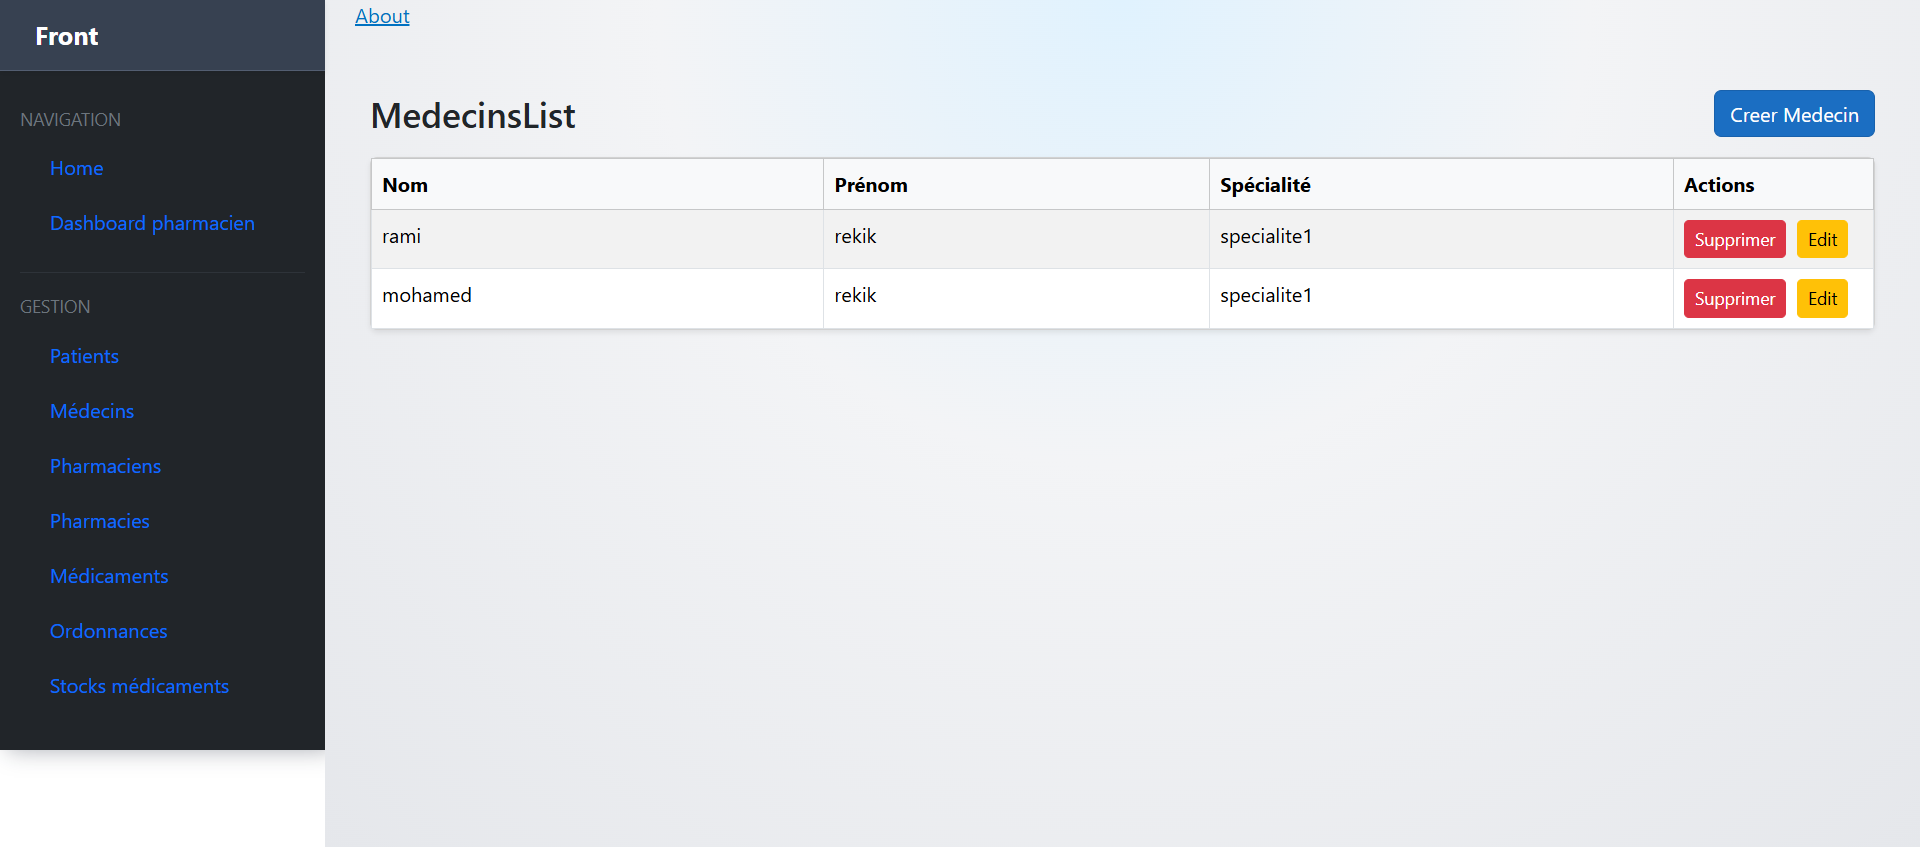
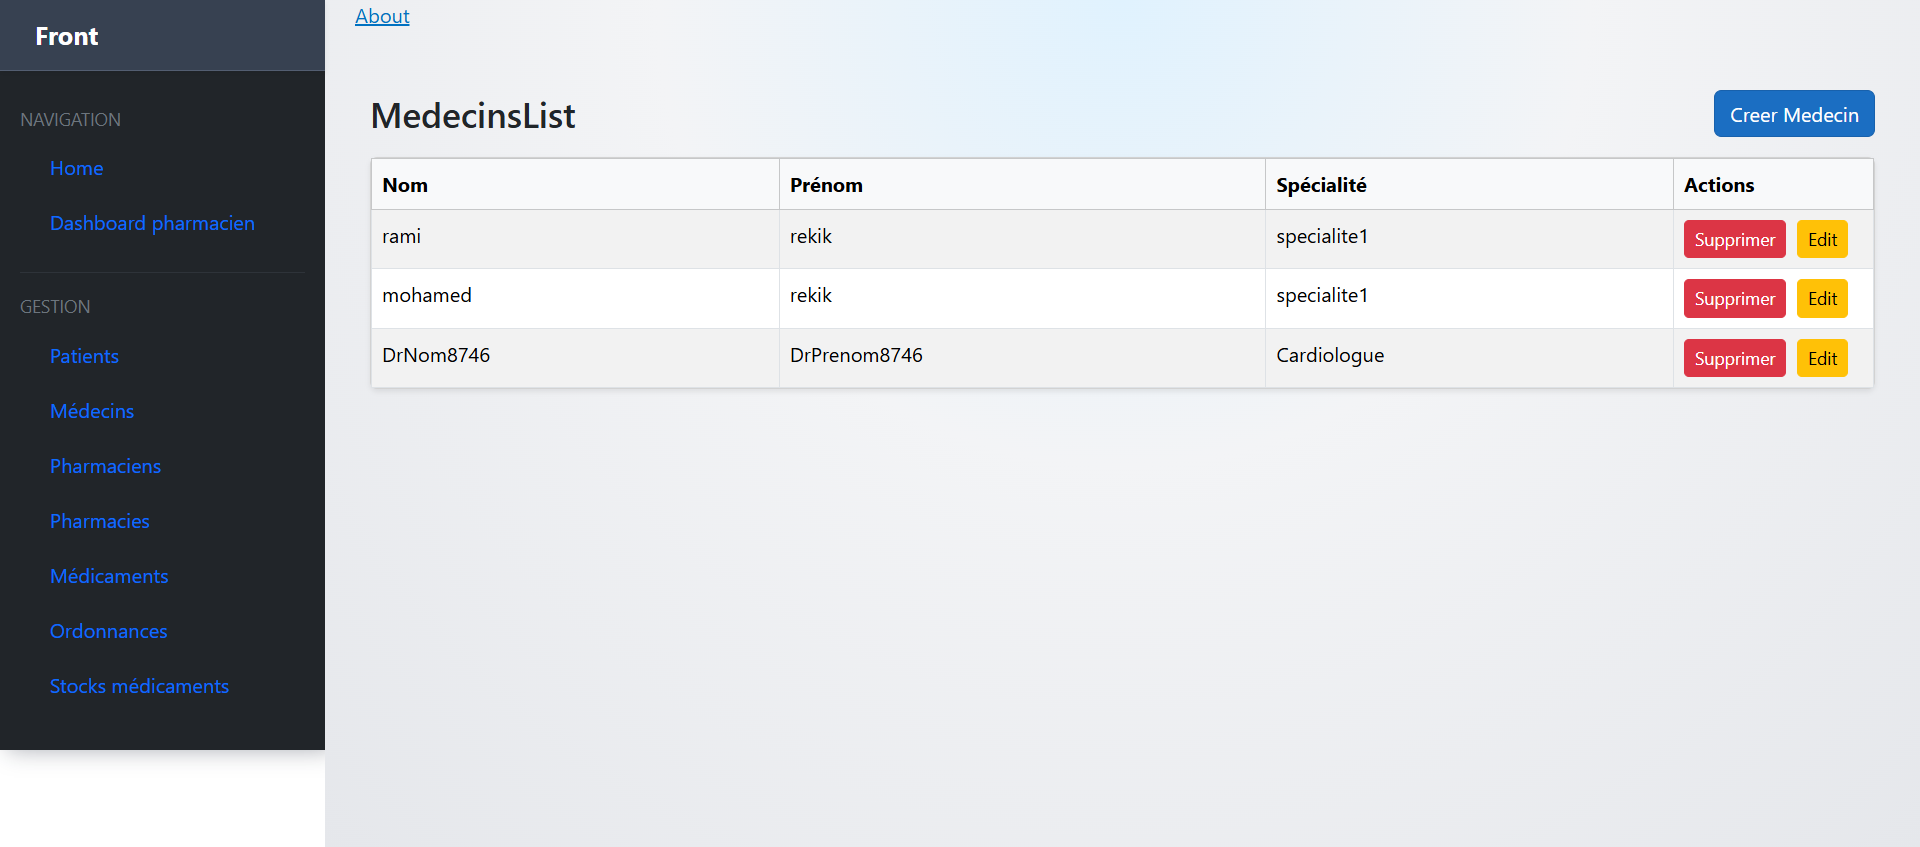
updates

diff --git a/pages/PharmaciensPage.py b/pages/PharmaciensPage.py
@@ -16,6 +16,7 @@ class PharmaciensPage(BasePage):
     INPUT_PRENOM = (By.XPATH, "//div[@class='card-body']//div[2]//input[1]")
     INPUT_TELEPHONE = (By.XPATH, "//div[3]//input[1]")
     INPUT_EMAIL = (By.XPATH, "//main//div[5]//input")
+    INPUT_INSCRIPTION = (By.XPATH, "//div[4]//input[1]")
     BUTTON_SUBMIT = (By.XPATH, "//button[normalize-space()='Create Pharmacien']")
 
     BUTTON_EDIT_FIRST = (By.XPATH, "(//button[contains(text(),'Edit')])[1]")
@@ -35,11 +36,12 @@ class PharmaciensPage(BasePage):
         self.click_element(self.BUTTON_CREATE)
         sleep(1)
 
-    def create_pharmacien(self, nom, prenom, telephone, email):
+    def create_pharmacien(self, nom, prenom, telephone, email, inscription):
         self.send_keys_to_element(self.INPUT_NOM, nom)
         self.send_keys_to_element(self.INPUT_PRENOM, prenom)
         self.send_keys_to_element(self.INPUT_TELEPHONE, telephone)
         self.send_keys_to_element(self.INPUT_EMAIL, email)
+        self.send_keys_to_element(self.INPUT_INSCRIPTION, inscription)
         self.click_element(self.BUTTON_SUBMIT)
         sleep(2)
 

diff --git a/pages/PharmaciesPage.py b/pages/PharmaciesPage.py
@@ -14,7 +14,6 @@ class PharmaciesPage(BasePage):
     INPUT_NOM = (By.XPATH, "//div[@class='card shadow-sm']//div[1]//input[1]")
     INPUT_ADRESSE = (By.XPATH, "//div[@class='card shadow-sm']//div[2]//input[1]")
     INPUT_TELEPHONE = (By.XPATH, "//div[3]//input[1]")
-    INPUT_EMAIL = (By.ID, "email")
     BUTTON_SUBMIT = (By.XPATH, "//button[normalize-space()='Create Pharmacie']")
 
     def __init__(self, driver):
@@ -35,7 +34,6 @@ class PharmaciesPage(BasePage):
         self.send_keys_to_element(self.INPUT_NOM, nom)
         self.send_keys_to_element(self.INPUT_ADRESSE, adresse)
         self.send_keys_to_element(self.INPUT_TELEPHONE, telephone)
-        self.send_keys_to_element(self.INPUT_EMAIL, email)
         self.click_element(self.BUTTON_SUBMIT)
         sleep(2)
 

diff --git a/tests/test_004_medecins.py b/tests/test_004_medecins.py
@@ -64,7 +64,8 @@ class Test_004_Medecins:
             prenom=f"DrPrenom{rid}",
             specialite="Cardiologue",
             telephone="+21620123456",
-            email=f"dr{rid}@example.com"
+            telephone_pro="+21670123456",
+            # email=f"dr{rid}@example.com"
         )
 
         medecins.navigate_to_medecins()
